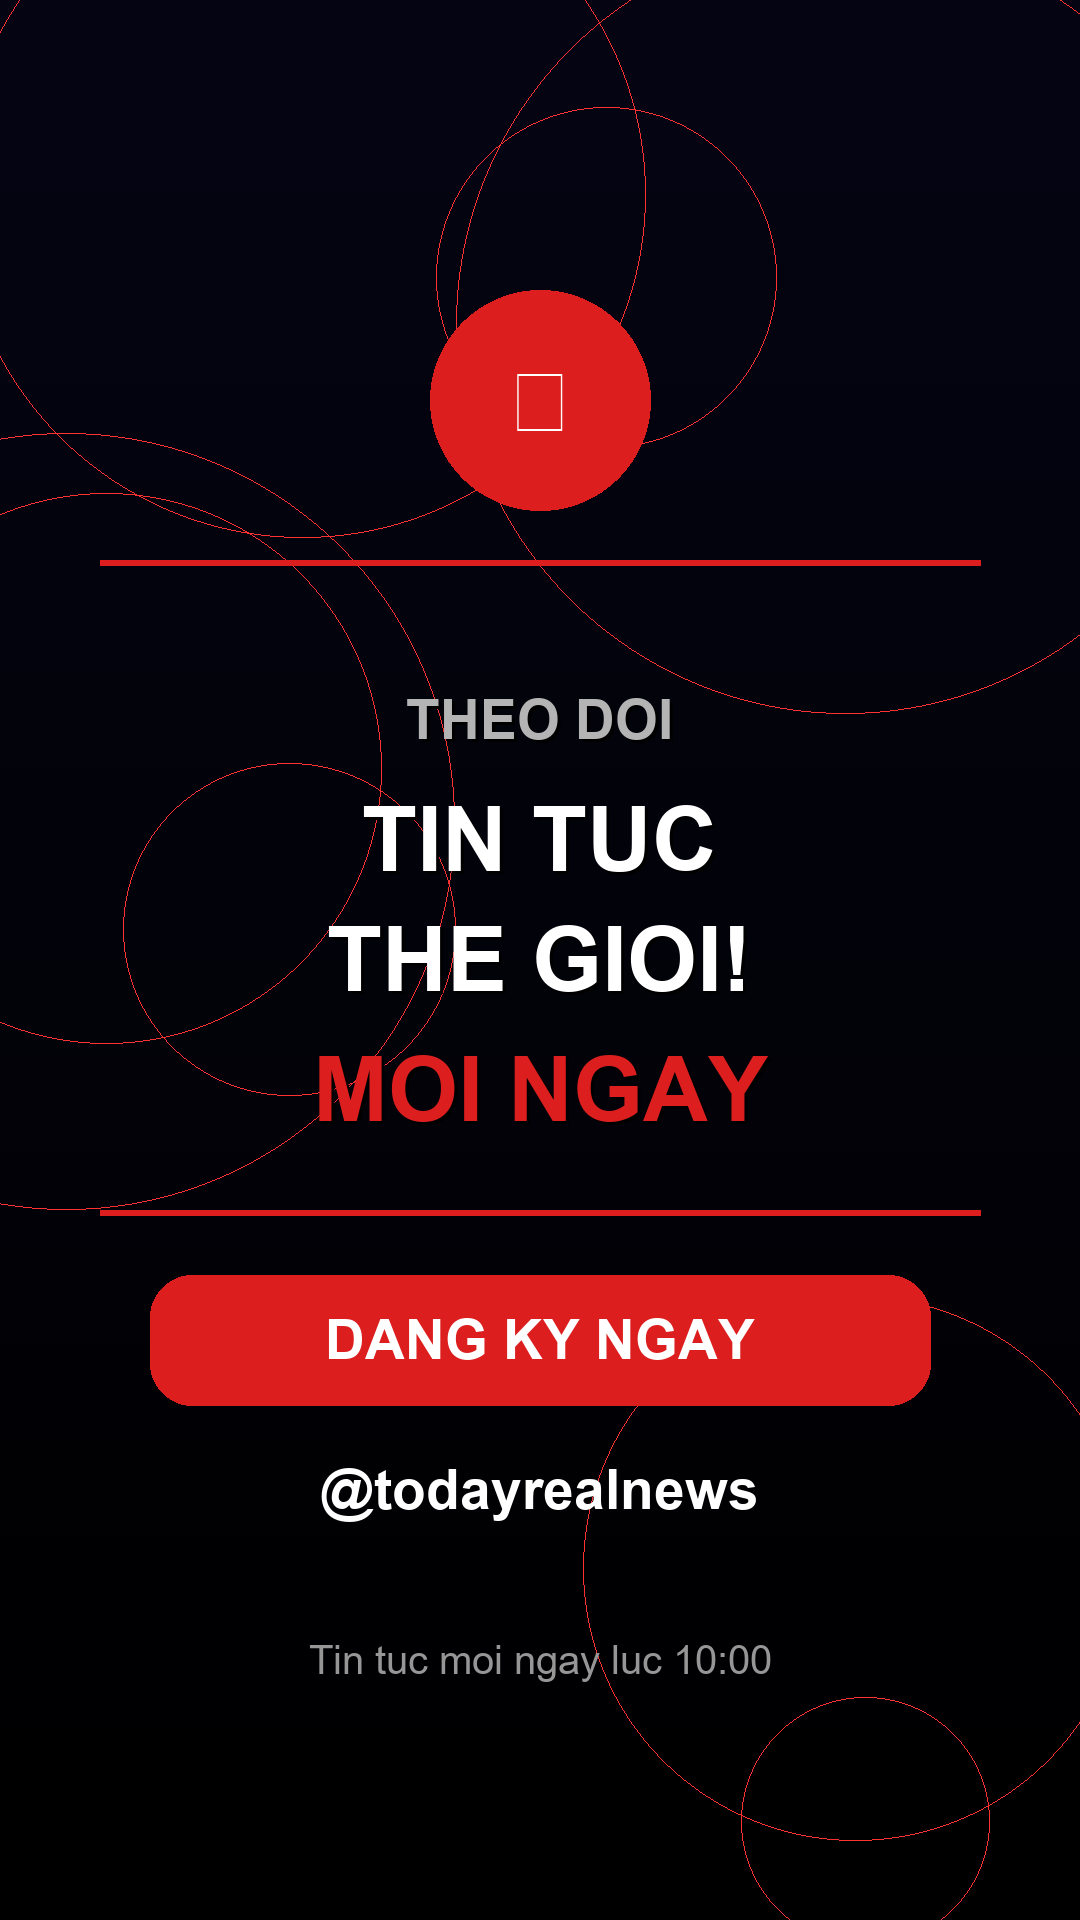
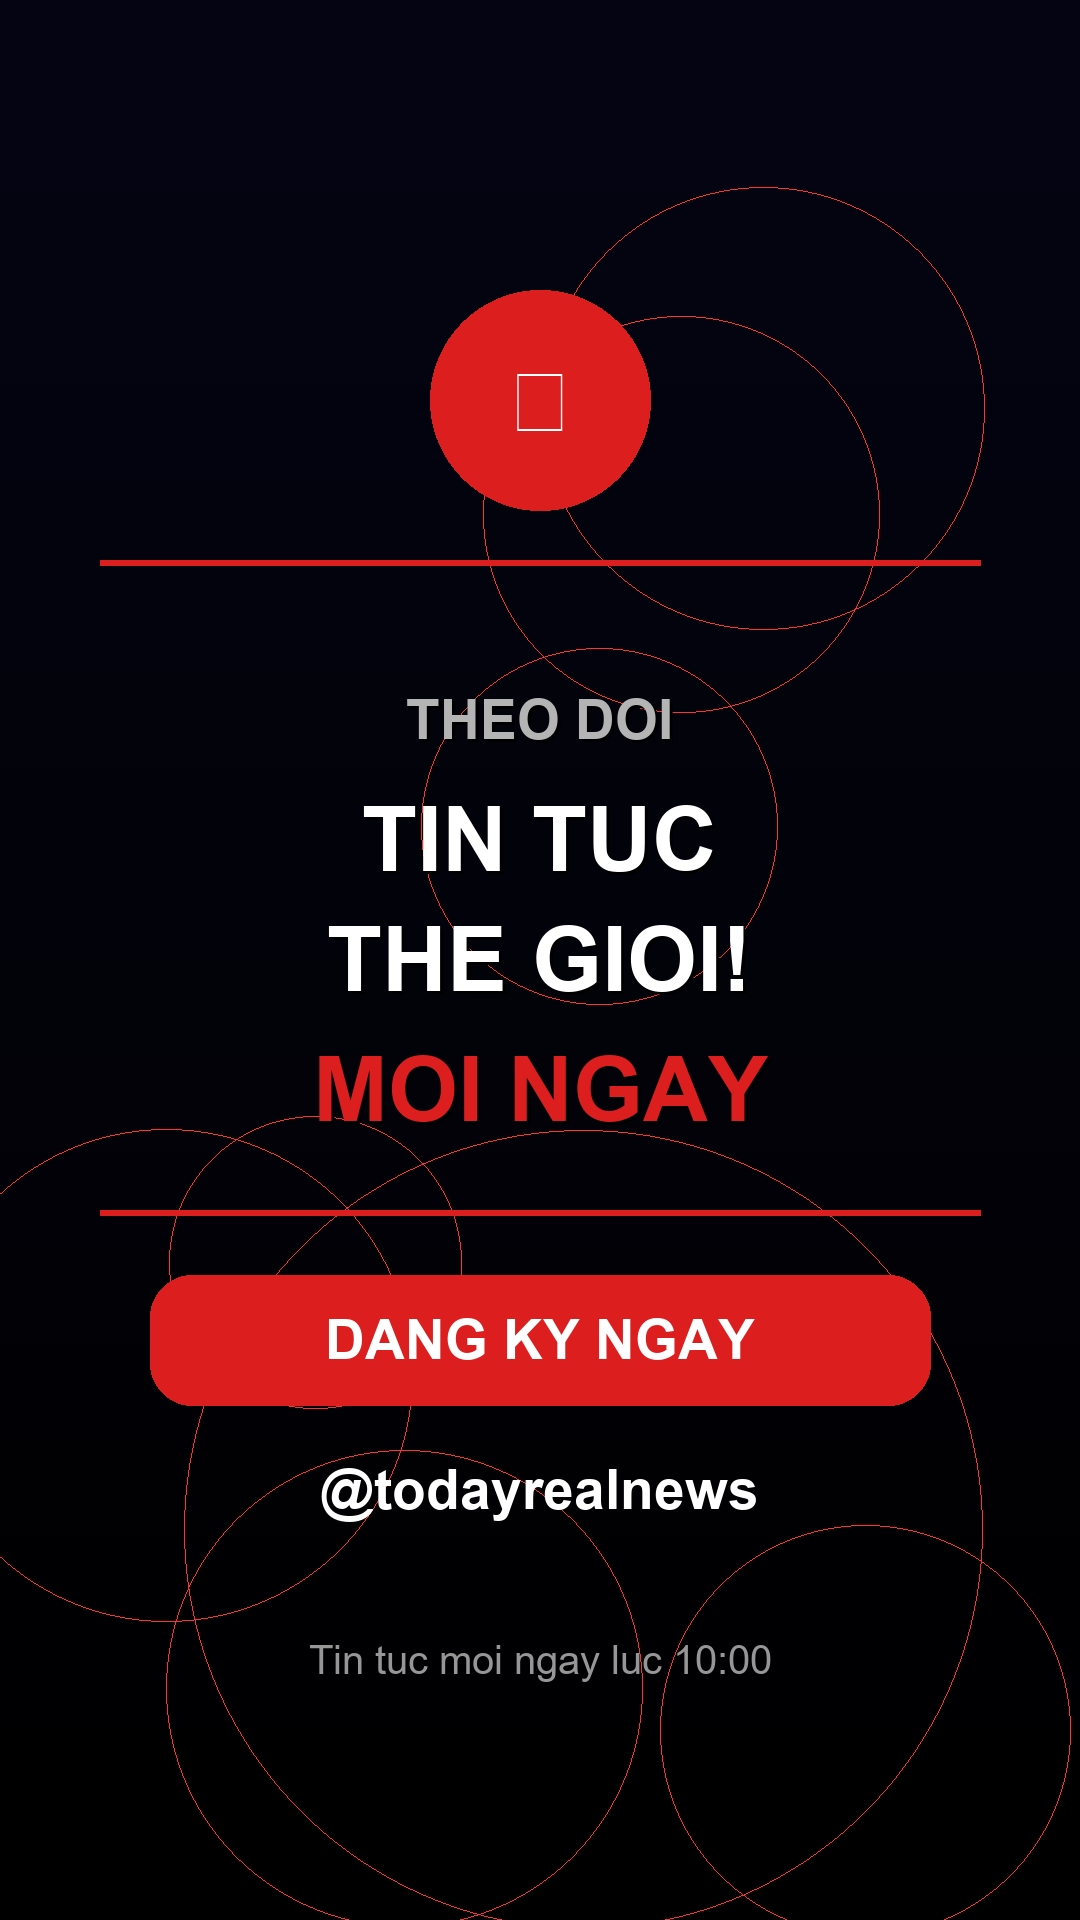
fix emoji + install fonts

diff --git a/generator/image_gen.py b/generator/image_gen.py
@@ -250,14 +250,10 @@ def prepare_background(
 ) -> Image.Image:
     """
     Если img=None — генерирует тёмный градиентный фон.
-    Иначе — режим FIT: картинка масштабируется так, чтобы полностью
-    влезть в холст без обрезки. Оставшееся пространство заполняется
-    размытой и затемнённой версией той же картинки.
-
-    Алгоритм:
-      1. Масштабируем картинку по наименьшей стороне (FIT).
-      2. Растягиваем оригинал на весь холст → размываем (GaussianBlur 30) → затемняем.
-      3. Вставляем FIT-картинку по центру поверх фона.
+    Иначе — режим FIT + размытый фон:
+      1. Оригинал растягивается на весь холст → GaussianBlur(25) → затемняется на 55%.
+      2. Поверх по центру вставляется чёткая FIT-версия (вписана без обрезки).
+      3. Нижние 80px закрашиваются чёрным — скрывает логотип BBC и схожие ватермарки.
     """
     if img is None:
         return create_gradient_bg(target_w, target_h)
@@ -267,23 +263,29 @@ def prepare_background(
 
     src_w, src_h = img.size
 
-    # FIT: масштабируем так, чтобы картинка полностью влезла в холст
-    scale = min(target_w / src_w, target_h / src_h)
-    new_w = int(src_w * scale)
-    new_h = int(src_h * scale)
+    # Фон: оригинал на весь холст → размыт → затемнён
+    bg      = img.copy().resize((target_w, target_h), Image.LANCZOS)
+    bg      = bg.filter(ImageFilter.GaussianBlur(radius=25))
+    overlay = Image.new("RGB", (target_w, target_h), (0, 0, 0))
+    bg      = Image.blend(bg, overlay, alpha=0.55)
 
+    # FIT: вписываем оригинал целиком (без обрезки)
+    scale       = min(target_w / src_w, target_h / src_h)
+    new_w       = int(src_w * scale)
+    new_h       = int(src_h * scale)
     img_resized = img.resize((new_w, new_h), Image.LANCZOS)
 
-    # Фон: оригинал растянут на весь холст → размыт → затемнён
-    bg   = img.resize((target_w, target_h), Image.LANCZOS)
-    bg   = bg.filter(ImageFilter.GaussianBlur(radius=30))
-    dark = Image.new("RGB", (target_w, target_h), (0, 0, 0))
-    bg   = Image.blend(bg, dark, alpha=0.5)
-
-    # Вставляем FIT-картинку по центру
+    # Вставляем по центру
     offset_x = (target_w - new_w) // 2
     offset_y = (target_h - new_h) // 2
     bg.paste(img_resized, (offset_x, offset_y))
+
+    # Скрываем логотип BBC и другие ватермарки — закрашиваем нижние 80px
+    draw_bg = ImageDraw.Draw(bg)
+    draw_bg.rectangle(
+        [(0, target_h - 80), (target_w, target_h)],
+        fill=(0, 0, 0),
+    )
 
     return bg
 
@@ -559,7 +561,7 @@ def create_intro_banner(date_str: str, news_count: int, output_path: str) -> str
         [bw // 2 - icon_r, icon_cy - icon_r, bw // 2 + icon_r, icon_cy + icon_r],
         fill=(220, 30, 30),
     )
-    draw.text((bw // 2, icon_cy), "🌍", font=font_huge, anchor="mm", fill=(255, 255, 255))
+    draw.text((bw // 2, icon_cy), "N", font=font_huge, anchor="mm", fill=(255, 255, 255))
 
     # Заголовок баннера
     _draw_text_centered(draw, "TIN TUC HOM NAY", font_huge, 580, bw, (255, 255, 255))
@@ -595,7 +597,7 @@ def create_intro_banner(date_str: str, news_count: int, output_path: str) -> str
 
     os.makedirs(os.path.dirname(output_path), exist_ok=True)
     img.save(output_path, "PNG", optimize=True)
-    print(f"    ✅ Вступительный баннер создан: {output_path}")
+    print(f"    [OK] Вступительный баннер создан: {output_path}")
     return output_path
 
 
@@ -630,7 +632,7 @@ def create_subscribe_banner(output_path: str) -> str:
         [bw // 2 - icon_r, icon_y - icon_r, bw // 2 + icon_r, icon_y + icon_r],
         fill=(220, 30, 30),
     )
-    draw.text((bw // 2, icon_y), "📰", font=font_big, anchor="mm", fill=(255, 255, 255))
+    draw.text((bw // 2, icon_y), "T", font=font_big, anchor="mm", fill=(255, 255, 255))
 
     # Разделитель
     draw.rectangle([(100, icon_y + icon_r + 50), (bw - 100, icon_y + icon_r + 55)],
@@ -665,5 +667,5 @@ def create_subscribe_banner(output_path: str) -> str:
 
     os.makedirs(os.path.dirname(output_path), exist_ok=True)
     img.save(output_path, "PNG", optimize=True)
-    print(f"    ✅ Баннер подписки создан: {output_path}")
+    print(f"    [OK] Баннер подписки создан: {output_path}")
     return output_path
